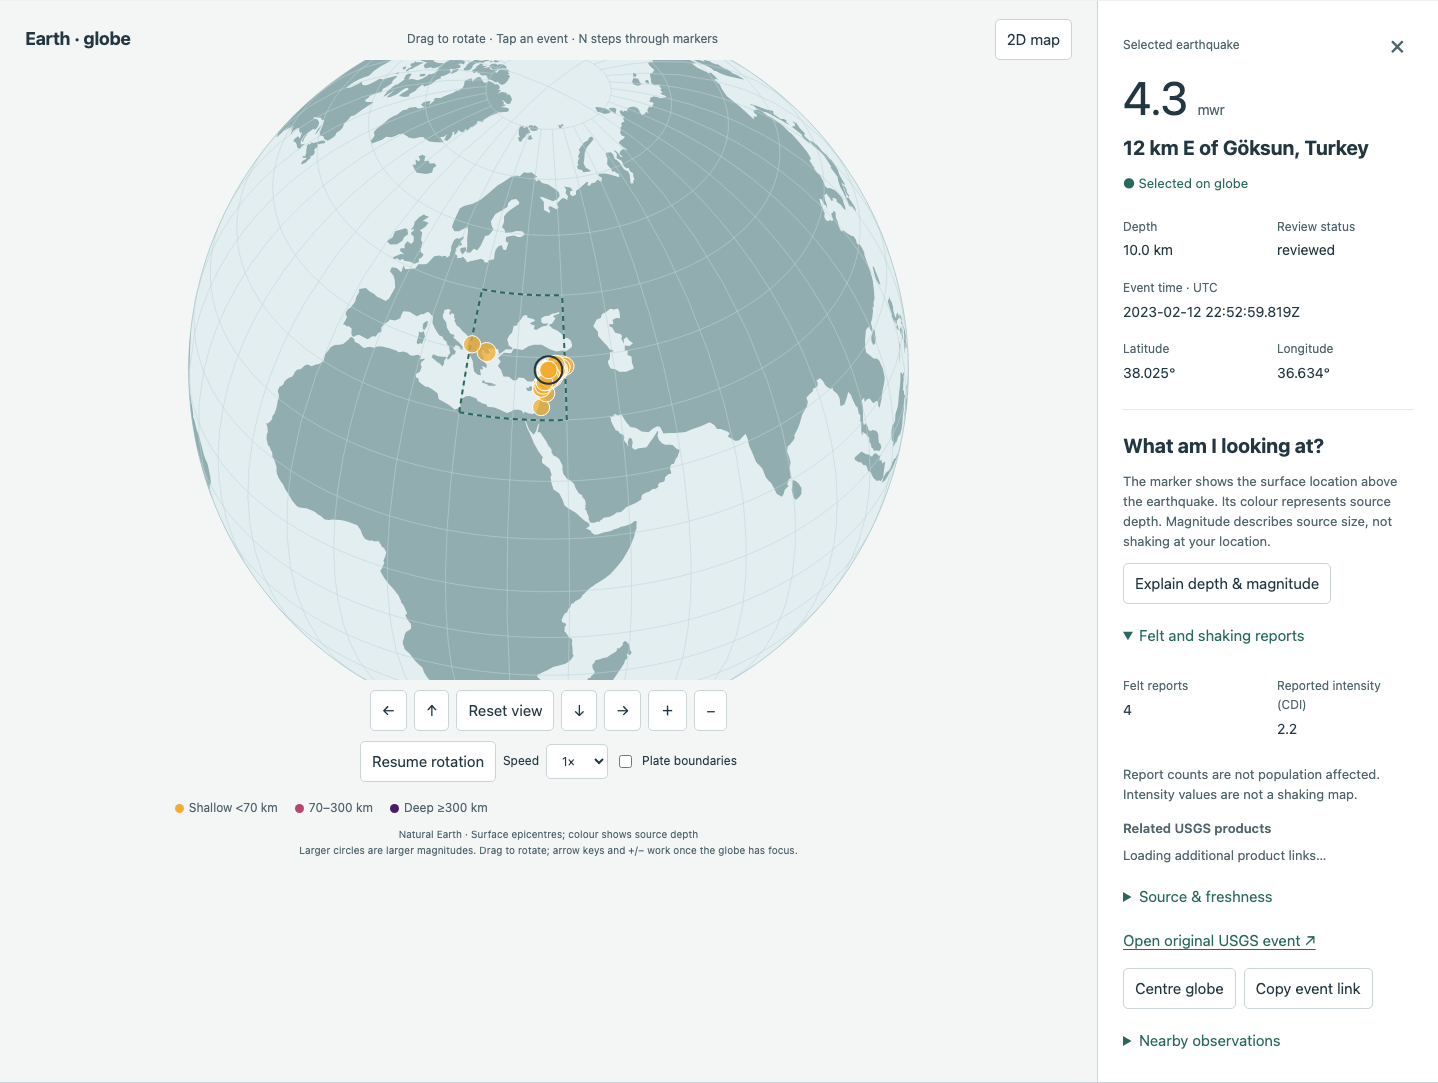
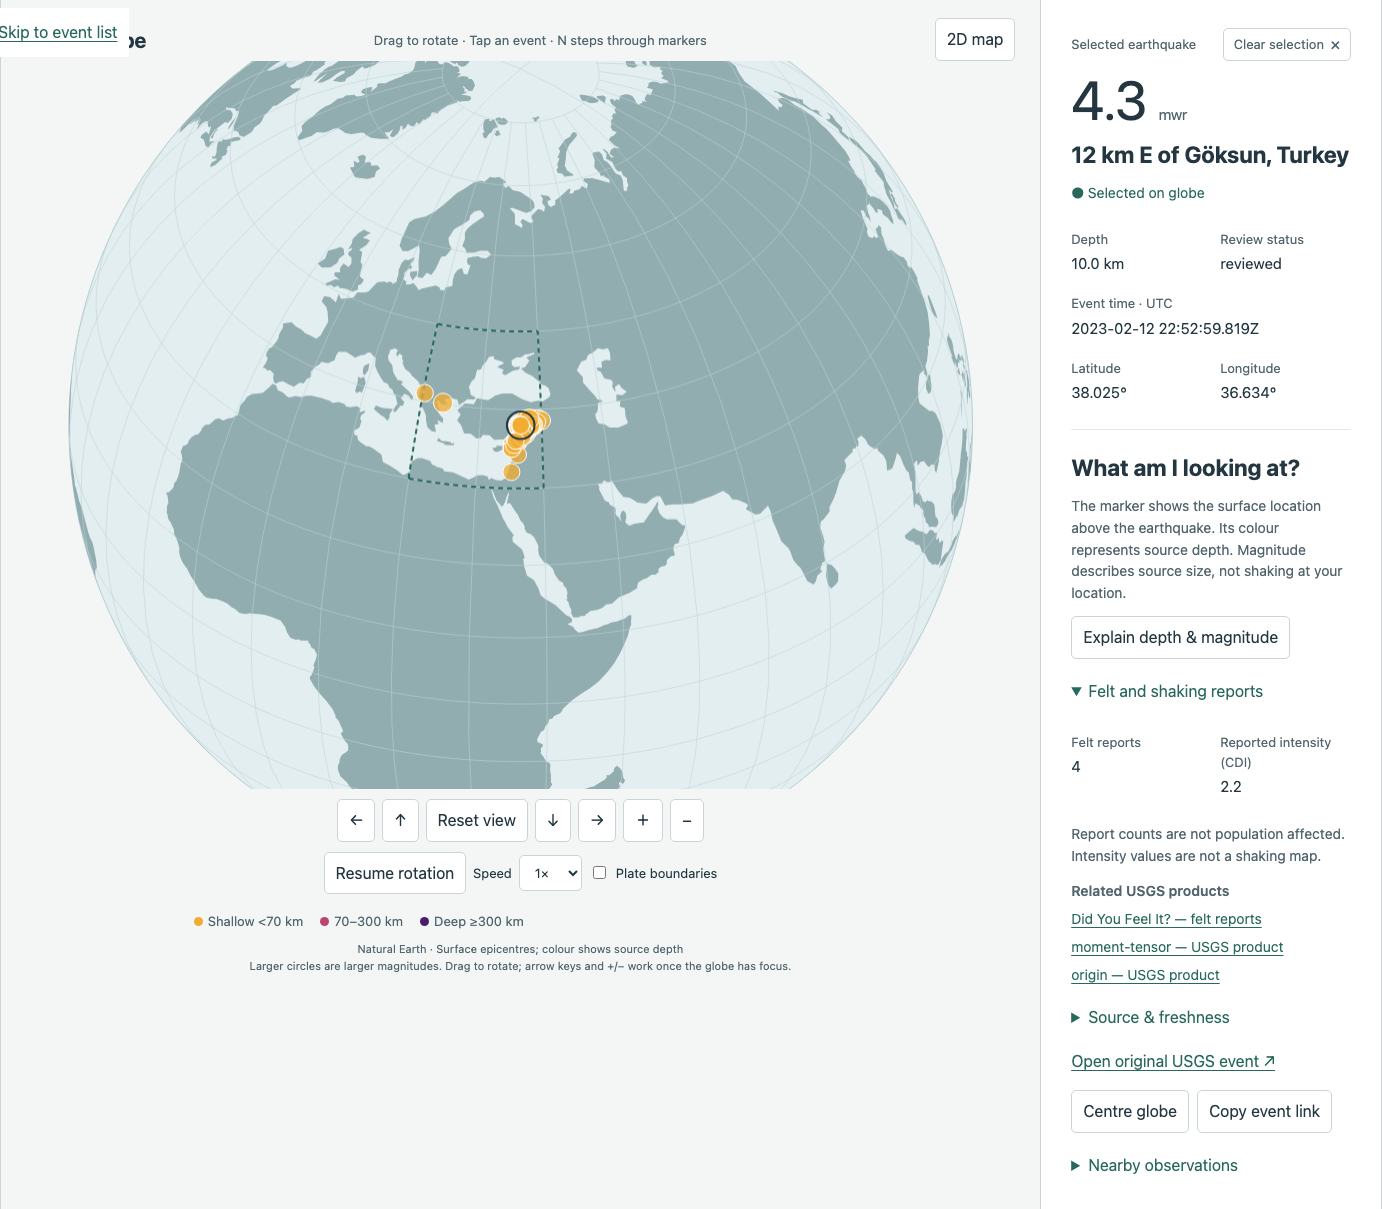
Let a selection be cleared where it was made, and record what the data is
Clicking the same earthquake again now clears it, on the scatter, the
table and the globe alike. Selecting from a chart scrolls the page to the
detail panel, so the only way back was a bare multiplication sign at the
top of a panel the reader had just been carried to; Escape worked but
announced itself nowhere. The control now reads "Clear selection" and
names Escape in its tooltip.

The bundled demo's mangled Turkish place names are upstream. A fresh
query against the documented URL returns records identical to the
bundled snapshot -- same ids, same places, same magnitudes, differing
only in the response's own generated timestamp -- and the letters that
survive are exactly those inside Latin-1. Regenerating would change a
timestamp and nothing else, and rewriting the names would edit an
observational record, so sources.md and the readiness table state the
limitation instead.

Also: the exported timeline named no font, so a file opened outside the
application fell back to serif. Performance evidence re-measured on an
idle machine, with the noisy run noted.

Claude-Session: https://claude.ai/code/session_01E7rpkYLrFRWB46HWevgLMJ

diff --git a/web/src/main.tsx b/web/src/main.tsx
@@ -469,6 +469,13 @@ function App() {
     }
   }
   function choose(e: Event) {
+    // Clicking the selected earthquake again clears it: on a chart or the
+    // globe there is nothing else to click, and the close control is at the
+    // top of a panel the reader may have scrolled away from.
+    if (selected?.id === e.id) {
+      closeSelection();
+      return;
+    }
     pause();
     selectionOrigin.current = document.activeElement as HTMLElement;
     setSelected(e);
@@ -624,6 +631,12 @@ function App() {
     // adds two lines of room for provenance rather than assuming a size.
     const width = source.viewBox.baseVal.width || 900;
     svg.setAttribute("xmlns", "http://www.w3.org/2000/svg");
+    // font-family: inherit comes from the stylesheet, which the standalone
+    // file does not carry, so state the stack on the exported element.
+    svg.setAttribute(
+      "font-family",
+      "Inter, 'Segoe UI', -apple-system, BlinkMacSystemFont, sans-serif",
+    );
     svg.setAttribute("width", String(width));
     svg.setAttribute("height", "306");
     svg.setAttribute("viewBox", `0 0 ${width} 306`);

diff --git a/web/src/SelectedEvent.tsx b/web/src/SelectedEvent.tsx
@@ -71,8 +71,13 @@ function SelectedEventView({
     <>
       <div class="detail-top">
         <span>Selected earthquake</span>
-        <button onClick={closeSelection} aria-label="Close event details">
-          ×
+        <button
+          class="clear-selection"
+          onClick={closeSelection}
+          aria-label="Close event details"
+          title="Close these details (Esc)"
+        >
+          Clear selection <span aria-hidden="true">×</span>
         </button>
       </div>
       <h2 class="magnitude" ref={detailHeading} tabIndex={-1}>

diff --git a/web/src/style.css b/web/src/style.css
@@ -411,9 +411,16 @@ label {
   font-size: 13px;
 }
 .detail-top button {
-  border: 0;
-  font-size: 29px;
-  padding: 0 8px;
+  font-size: 13px;
+  padding: 5px 10px;
+  min-height: 0;
+  display: inline-flex;
+  align-items: center;
+  gap: 6px;
+}
+.detail-top button span {
+  font-size: 17px;
+  line-height: 1;
 }
 .magnitude {
   font-size: 54px;

diff --git a/docs/release-readiness.md b/docs/release-readiness.md
@@ -22,9 +22,10 @@ Host: macOS arm64, Go 1.27.1, Node 26.8.1, headless Chromium 153.0.8010.12. Veri
 | Accessibility | axe Chromium scan: zero violations after count-label correction. Keyboard rotation buttons, selection alternatives, dialog Escape and focus placement exercised. This is not a full WCAG conformance audit. |
 | Responsive visual review | Screenshots at 1440, 1024 and 390 px; no document-level horizontal overflow. Desktop/phone images reviewed. Mobile details sheet has separate screenshot evidence. |
 | Live provider | Actual recent query returned 183 observations, complete and not stale, fetched 2026-09-06T00:51:30Z. Count is a snapshot, not a lasting current count. Live historical query passed separately. |
-| Performance | 20,000 synthetic events: filtering p95 ≈0.85 ms in Node (100 measured iterations). Chromium rotation ≈37.5 fps; browser filter interactions ≈136–180 ms including test overhead in the initial measured run. Final run: 37.18 fps, 133–173 ms interactions; heap after ten view switches 624 MB (unforced GC, not a leak determination). Raw measurements in `extended-test-results.json`. |
+| Performance | 20,000 synthetic events: filtering p95 ≈0.85 ms in Node (100 measured iterations). Chromium rotation 38.0 fps, longest frame 33 ms; browser filter interactions 145–228 ms (mean 170) including Playwright overhead. Heap after ten view switches 225 MB (unforced GC, not a leak determination). Measured on an otherwise idle machine after the component split; a run competing with a release build reported 33 fps and a 193 ms mean, so treat these as indicative rather than absolute. Raw measurements in `extended-test-results.json`. |
 | Dependency vulnerabilities | `npm audit` reports zero; `go run golang.org/x/vuln/cmd/govulncheck@latest ./...` reports no vulnerabilities. Scan results are time-specific. |
 | Packaging | macOS arm64, macOS amd64 and Windows amd64 cross-builds succeeded. Extracted macOS arm64 archive passed startup, embedded assets, demo, running backup, restart, clean-directory restore and integrity checks; see `consumer-test-results.json`. Native macOS Launch Services launch, live-mode configuration and ad-hoc signature verification also passed. Windows and Intel execution remain unverified. |
+| Upstream data quality | 125 of the 618 bundled place descriptions carry a question mark where a non-Latin-1 letter belongs (`Nurda??`, `Pazarc?k`). Verified as upstream: a fresh USGS query returns records identical to the bundled snapshot, differing only in the response's own `generated` timestamp. Descriptions are reproduced as supplied rather than corrected, because editing them would alter an observational record; see `sources.md`. Coordinates, magnitudes, depths and times are unaffected. |
 | Attribution/license | Credit `Built by Bruce Hoppe · Source on GitHub` links to the repository in the production footer and About panel, with no address published in the interface; browser check asserts footer visibility. README, QUICKSTART, MIT LICENSE and third-party notices included in archives. |
 | CI | Workflow configured for Linux/macOS/Windows; no hosted CI run is claimed. |
 

diff --git a/docs/sources.md b/docs/sources.md
@@ -63,5 +63,6 @@ Verification: 2026-09-06 UTC.
 
 Historical fixture query: https://earthquake.usgs.gov/fdsnws/event/1/query?format=geojson&starttime=2023-02-06&endtime=2023-02-13&minmagnitude=4&eventtype=earthquake&orderby=time-asc
 Retrieved 2026-09-06 UTC; 618 source records. This is real historical observation data, never illustrative/synthetic. Synthetic test events exist only in tests. To reproduce, download the query to web/public/data/demo.geojson, inspect changes and regenerate asset hashes; the mutable catalog may now differ.
+Upstream place-name encoding: 125 of the 618 place descriptions contain a question mark where a non-Latin-1 letter belongs, so Nurdagi appears as `Nurda??` and Pazarcik as `Pazarc?k`. This originates at USGS, not in this application: a fresh query returns byte-identical records, and characters inside Latin-1 (Ç, á, ç, é, ë, í, ö, ü) arrive intact while Turkish g-breve, dotless i and s-cedilla do not. Place descriptions are reproduced exactly as the catalog supplies them; correcting them here would alter an observational record, so the limitation is documented instead. Coordinates, magnitudes, depths and times are unaffected.
 Geography: world-atlas 2.0.2 countries-110m.json; land object used. Plates: PB2002_boundaries.json from fraxen/tectonicplates master; exact SHA above pins the bundled version. See plate-source.md and plate-license.md.
 Plate boundary coordinates are a coarse global model, with no claimed fault-level precision. Uniform lines deliberately avoid unverified boundary-type interpretation. No map tiles or imagery are bundled.
